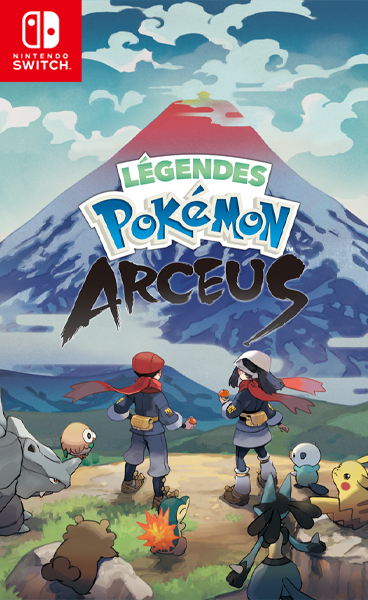
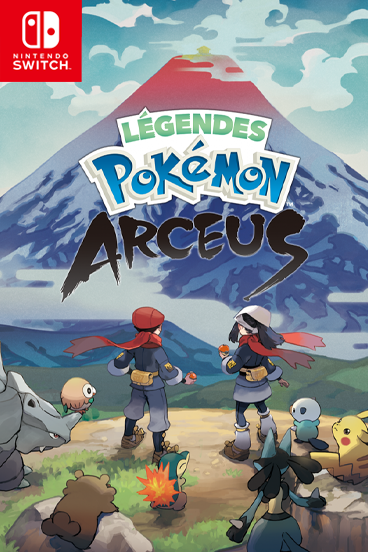
Adjusted responsive for every games platforms

diff --git a/assets/css/games-retro.css b/assets/css/games-retro.css
@@ -147,7 +147,6 @@ html,
     display: flex;
     justify-content: center;
     align-items: center;
-    height: 305px;
     padding: 10px;
 }
 
@@ -155,8 +154,8 @@ html,
     display: block;
     position: relative;
     margin: auto;
-    height: 305px;
-    width: 305px;
+    width: 100%;
+    max-width: 305px;
 }
 
 .effect-show-ps1 .mask-1,
@@ -203,7 +202,7 @@ html,
 
 .effect-show-ps1:hover .content {
     height: 140px;
-    width: 325px;
+    width: 100%;
     opacity: 0.9;
     top: 31.8%;
     transform: rotate(0deg) translate(0, 0);
@@ -240,15 +239,16 @@ html,
     position: relative;
     object-fit: fill;
     margin: auto;
-    height: 495px;
+    width: 100%;
+    max-height: 475px;
 }
 
 .effect-show-ps2 .mask-1,
 .effect-show-ps2 .mask-2,
 .effect-show-gc .mask-1,
 .effect-show-gc .mask-2 {
-    height: 700px;
-    width: 700px;
+    height: 600px;
+    width: 600px;
     opacity: 1;
     transition: all 0.3s ease-in-out 0.6s;
 }
@@ -262,7 +262,7 @@ html,
 .effect-show-gc .mask-1 {
     left: auto;
     right: 0;
-    transform: rotate(34.1deg) translateX(-320px);
+    transform: rotate(34.15deg) translateX(-320px);
     transform-origin: 100% 0%;
 }
 
@@ -270,7 +270,7 @@ html,
 .effect-show-gc .mask-2 {
     top: auto;
     bottom: 0;
-    transform: rotate(34.1deg) translateX(320px);
+    transform: rotate(34.15deg) translateX(320px);
     transform-origin: 0% 100%;
 }
 
@@ -281,7 +281,7 @@ html,
     opacity: 0.5;
     width: 458px;
     overflow: hidden;
-    transform: rotate(-34.1deg) translate(-112px, 166px);
+    transform: rotate(-34.15deg) translate(-112px, 166px);
     transform-origin: 0% 100%;
     transition: all 0.4s ease-in-out 0.3s;
 }
@@ -313,12 +313,12 @@ html,
 
 .effect-show-ps2:hover .mask-1,
 .effect-show-gc:hover .mask-1 {
-    transform: rotate(34.1deg) translateX(0);
+    transform: rotate(34.15deg) translateX(0);
 }
 
 .effect-show-ps2:hover .mask-2,
 .effect-show-gc:hover .mask-2 {
-    transform: rotate(34.1deg) translateX(0);
+    transform: rotate(34.15deg) translateX(0);
 }
 
 /* Style PSP */
@@ -334,13 +334,14 @@ html,
     position: relative;
     object-fit: fill;
     margin: auto;
-    height: 495px;
+    width: 100%;
+    max-height: 475px;
 }
 
 .effect-show-psp .mask-1,
 .effect-show-psp .mask-2{
-    height: 700px;
-    width: 700px;
+    height: 600px;
+    width: 600px;
     background: rgba(17,17,19,0.5);
     opacity: 1;
     transition: all 0.3s ease-in-out 0.6s;

diff --git a/assets/css/games-nintendo.css b/assets/css/games-nintendo.css
@@ -43,8 +43,8 @@ input:checked + .slider .thumb i {
     display: block;
     position: relative;
     margin : auto;
-    height : 305px;
-    width : 305px;
+    width: 100%;
+    max-width: 305px;
 }
 
 .games-show-nintendo h2 {
@@ -100,7 +100,7 @@ input:checked + .slider .thumb i {
 
 .effect-show-nintendo:hover .content {
     height: 119px;
-    width: 325px;
+    width: 100%;
     -ms-filter: "progid:DXImageTransform.Microsoft.Alpha(Opacity=90)";
     filter: alpha(opacity=90);
     opacity: 0.9;
@@ -125,8 +125,13 @@ input:checked + .slider .thumb i {
 	display : flex;
 	justify-content : center;
 	align-items : center;
-	height : 305px;
 	padding : 10px;
+    max-width: 305px;
+}
+
+/* Pokemon Fire Red Hidden */
+.ds-nintendo:nth-child(6) {
+    display: none;
 }
 
 #zoot, 
@@ -160,8 +165,8 @@ input:checked + .slider .thumb i {
     position: relative;
     object-fit : fill;
     margin : auto;
-    height : 495px;
-    min-width : 305px;
+    width: 100%;
+    max-width: 305px;
 }
 
 .games-show-switch h2 {
@@ -203,7 +208,7 @@ input:checked + .slider .thumb i {
     -ms-filter: "progid:DXImageTransform.Microsoft.Alpha(Opacity=50)";
     filter: alpha(opacity=50);
     opacity: 0.5;
-    width: 458px;
+    width: 100%;
     overflow: hidden;
     transform: rotate(-32.2deg) translate(-112px, 166px);
     transform-origin: 0% 100%;
@@ -232,18 +237,16 @@ input:checked + .slider .thumb i {
     transition-delay: 0s;
 }
 .effect-show-switch:hover .mask-1 {
-    transform: rotate(32.2deg) translateX(0);
+    transform: rotate(34.1deg) translateX(0);
 }
 .effect-show-switch:hover .mask-2 {
-    transform: rotate(32.2deg) translateX(0);
+    transform: rotate(34.1deg) translateX(0);
 }	
 
 .switch-nintendo {
 	display : flex;
 	justify-content : center;
 	align-items : center;
-	height : 495px;
-	width : 305px;
 	padding : 10px;
 }
 

diff --git a/assets/css/games-steam.css b/assets/css/games-steam.css
@@ -100,8 +100,8 @@ html,
     display: block;
     position: relative;
     margin : auto;
-    height : 432px;
-    min-width : 288px;
+    width: 100%;
+    max-width: 288px;
 }
 
 .games-show-steam h2 {
@@ -127,13 +127,13 @@ html,
 .effect-show-steam .mask-1 {
     left: auto;
     right: 0;
-    transform: rotate(34.2deg) translateX(-260px);
+    transform: rotate(34.2deg) translateX(-270px);
     transform-origin: 100% 0%;
 }
 .effect-show-steam .mask-2 {
     top: auto;
     bottom: 0;
-    transform: rotate(34.2deg) translateX(260px);
+    transform: rotate(34.2deg) translateX(270px);
     transform-origin: 0% 100%;
 }
 .effect-show-steam .content {
@@ -142,7 +142,7 @@ html,
     -ms-filter: "progid:DXImageTransform.Microsoft.Alpha(Opacity=50)";
     filter: alpha(opacity=50);
     opacity: 0.5;
-    width: 361px;
+    width: 100%;
     overflow: hidden;
     transform: rotate(-33.5deg) translate(-112px, 166px);
     transform-origin: 0% 100%;
@@ -162,8 +162,8 @@ html,
     opacity: 0.9;
     top: 34.5%;
     transform: rotate(0deg) translate(0, 0);
-		position : absolute;
-		left : 0;
+	position : absolute;
+	left : 0;
 }
 
 .effect-show-steam:hover .mask-1,
@@ -187,8 +187,6 @@ html,
 	display : flex;
 	justify-content : center;
 	align-items : center;
-	width : 288px;
-	height : 432px;
 	padding : 10px;
     z-index: 0;
 }

diff --git a/assets/css/main.css b/assets/css/main.css
@@ -257,7 +257,7 @@ input:checked + .slider {
 }
 
 .social-list {
-	padding : 20px 0 40px;
+	padding : 20px 0 55px;
 	display: flex;
 	align-items: center;
 	justify-content: center;

diff --git a/assets/css/games-ps.css b/assets/css/games-ps.css
@@ -38,7 +38,8 @@
    display: block;
    position: relative;
    margin : auto;
-   width : 304px;
+   width : 100%;
+   max-width: 304px;
 }
 
 .games-show h2 {
